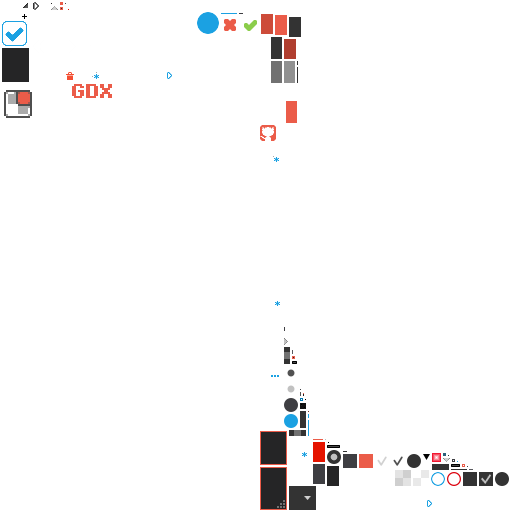
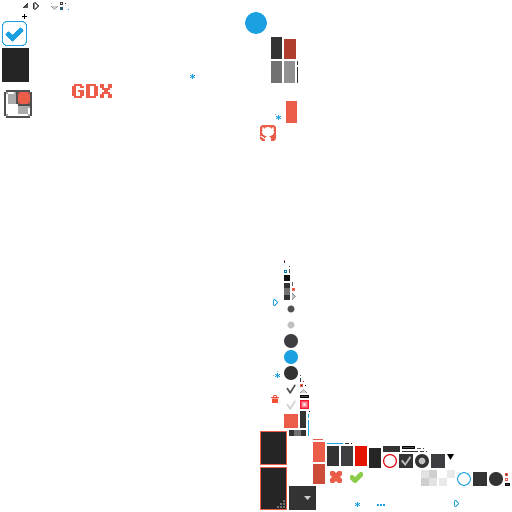
Compression layout progress

diff --git a/core/src/com/crashinvaders/texturepackergui/controllers/main/WidgetData.java b/core/src/com/crashinvaders/texturepackergui/controllers/main/WidgetData.java
@@ -3,6 +3,7 @@ package com.crashinvaders.texturepackergui.controllers.main;
 import com.badlogic.gdx.graphics.Pixmap;
 import com.badlogic.gdx.graphics.Texture;
 import com.badlogic.gdx.utils.Array;
+import com.crashinvaders.texturepackergui.App;
 
 public class WidgetData {
 
@@ -32,10 +33,34 @@ public class WidgetData {
     public static final Array<String> outputFormats = Array.with("png", "jpg");
 
     public enum compressionPng {
-        none, png0, png1, png2
+        none ("cmprsNone"),
+        pngtastic ("cmprsPngtastic"),
+        zopfli ("cmprsZopfli");
+
+        private final String nameKey;
+
+        compressionPng(String nameKey) {
+            this.nameKey = nameKey;
+        }
+
+        @Override
+        public String toString() {
+            return App.inst().getI18n().get(nameKey);
+        }
     }
 
     public enum compressionJpg {
-        none, jpg0, jpg1, jpg2
+        none ("cmprsNone");
+
+        private final String nameKey;
+
+        compressionJpg(String nameKey) {
+            this.nameKey = nameKey;
+        }
+
+        @Override
+        public String toString() {
+            return App.inst().getI18n().get(nameKey);
+        }
     }
 }

diff --git a/core/src/com/crashinvaders/texturepackergui/controllers/packing/processors/CompressingProcessor.java b/core/src/com/crashinvaders/texturepackergui/controllers/packing/processors/CompressingProcessor.java
@@ -17,13 +17,14 @@ public class CompressingProcessor implements PackProcessor {
         System.out.println("Compression started");
 
         PngOptimizer pngOptimizer = new PngOptimizer(LOG_LEVEL);
+//        pngOptimizer.setCompressor();
 
         TextureAtlas.TextureAtlasData atlasData = new TextureAtlas.TextureAtlasData(
                 Gdx.files.absolute(pack.getOutputDir()).child(pack.getCanonicalFilename()),
                 Gdx.files.absolute(pack.getOutputDir()), false);
 
         for (TextureAtlas.TextureAtlasData.Page page : atlasData.getPages()) {
-            PngImage image = new PngImage(page.textureFile.file().getAbsolutePath(), "LOG_LEVEL");
+            PngImage image = new PngImage(page.textureFile.file().getAbsolutePath(), LOG_LEVEL);
             pngOptimizer.optimize(
                     image,
                     page.textureFile.file().getAbsolutePath(),

diff --git a/core/src/com/crashinvaders/texturepackergui/controllers/main/MainController.java b/core/src/com/crashinvaders/texturepackergui/controllers/main/MainController.java
@@ -511,7 +511,10 @@ public class MainController implements ActionContainer, ViewResizer {
 
         if (compression instanceof WidgetData.compressionPng) {
             switch (((WidgetData.compressionPng) compression)) {
-                case png0:
+                case pngtastic:
+                    container.setActor(parseLml(Gdx.files.internal("lml/testCompression.lml")));
+                    break;
+                case zopfli:
                     container.setActor(parseLml(Gdx.files.internal("lml/testCompression.lml")));
                     break;
                 default:
